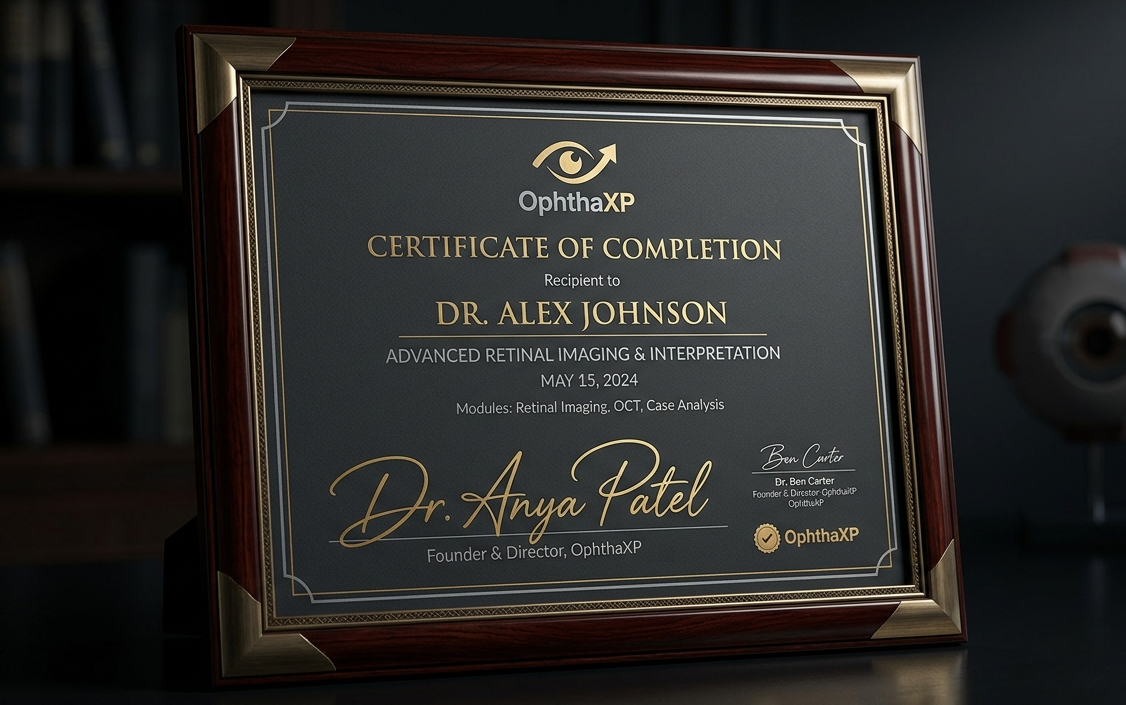
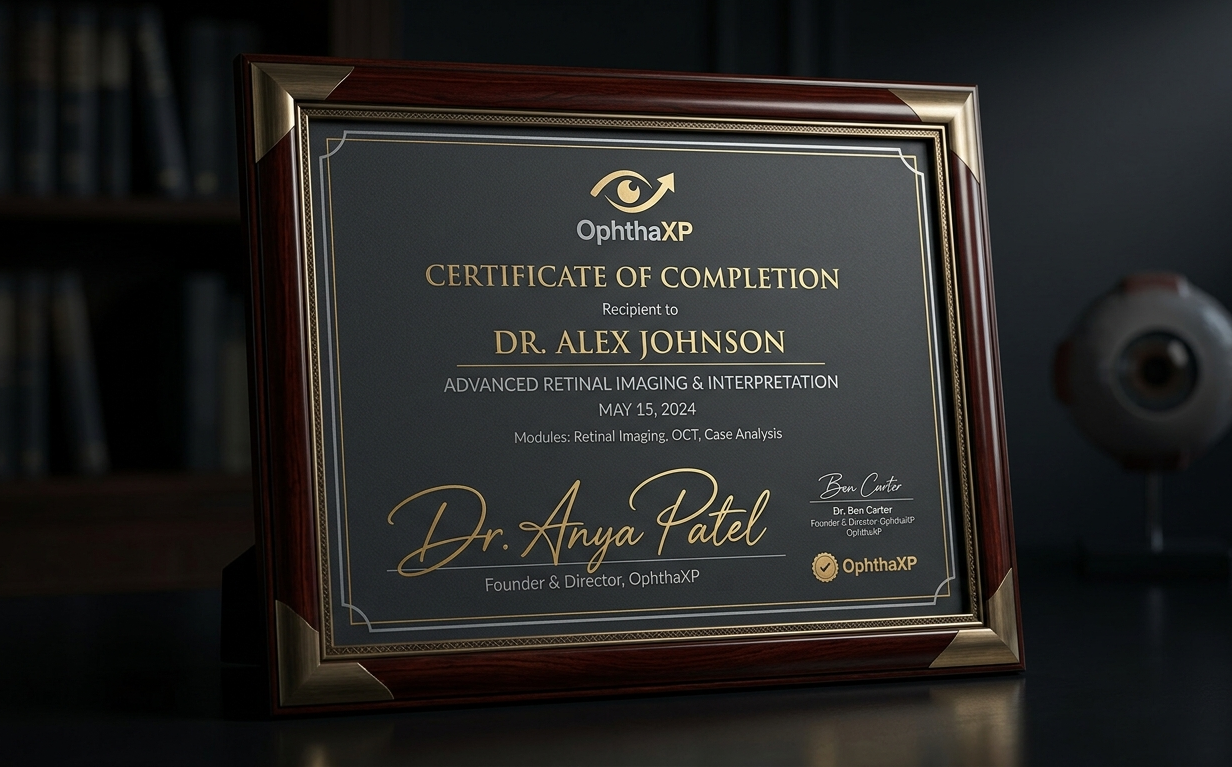
image not showing live issue

diff --git a/src/lib/courses.ts b/src/lib/courses.ts
@@ -31,13 +31,19 @@ function pickNumber(rec: RawRecord, ...keys: string[]): number | undefined {
 }
 
 /**
- * If the value is a relative path coming from the nocode backend (e.g.
- * "/api/public/files/foo.jpg"), prefix it with the backend base URL so the
- * browser can load it. Absolute URLs are returned as-is.
+ * Normalise a media URL coming from the nocode backend. Public-file URLs
+ * (relative or absolute) are routed through the same-origin `/_proxy/files/*`
+ * rewrite defined in next.config.mjs — that lets HTTPS pages load assets from
+ * an HTTP backend without mixed-content blocking and without leaking the
+ * backend host. Other absolute URLs pass through; other relative paths are
+ * resolved against the backend base.
  */
 function absoluteUrl(value?: string): string | undefined {
   if (!value) return undefined;
-  if (/^https?:\/\//i.test(value) || value.startsWith("data:")) return value;
+  if (value.startsWith("data:")) return value;
+  const fileMatch = /\/api\/public\/files\/(.+)$/i.exec(value);
+  if (fileMatch) return `/_proxy/files/${fileMatch[1]}`;
+  if (/^https?:\/\//i.test(value)) return value;
   if (!NOCODE_BASE) return value;
   return value.startsWith("/") ? `${NOCODE_BASE}${value}` : `${NOCODE_BASE}/${value}`;
 }

diff --git a/src/components/CertificatesPromo.tsx b/src/components/CertificatesPromo.tsx
@@ -51,7 +51,7 @@ export function CertificatesPromo() {
               alt="OphthaXP certificate of completion"
               fill
               sizes="(max-width: 1024px) 90vw, 28rem"
-              className="object-contain p-6"
+              className="object-contain"
               priority={false}
             />
           </div>
